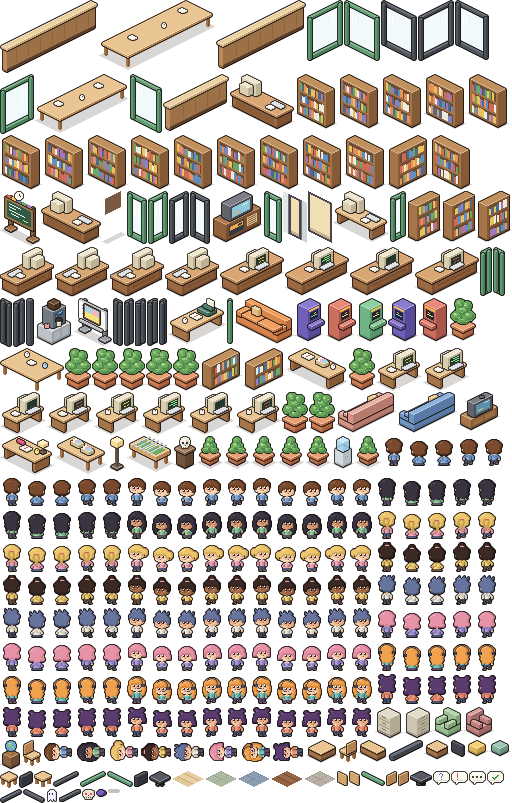
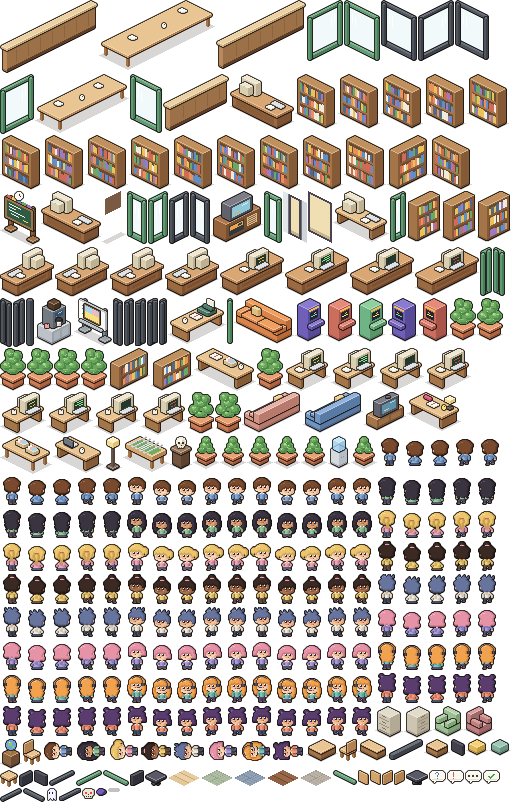
Troca a mesa da Luna por seis mesas de trabalho e centraliza a mesa da Emi
A Casa perde a mesa quadrada e o tapete azul; no lugar entram seis mesas
com notebook e cadeira, a da Luna primeiro. A mesa da Emi e as cadeiras de
visita ficam no meio do tapete. Arte regerada com export_app.py.

diff --git a/test/casa2d.test.ts b/test/casa2d.test.ts
@@ -76,16 +76,12 @@ describe('layout 2D da Casa', () => {
     for (const s of CASA.static) expect(ATLAS.frames[s.f], s.f).toBeDefined()
   })
 
-  it('a mesa da Luna tem seis cadeiras, a da Luna primeiro, todas viradas para a mesa', () => {
-    const { seats, center } = CASA.table
+  it('as seis mesas de trabalho têm uma cadeira cada, a da Luna primeiro, todas viradas para a mesa', () => {
+    const { seats } = CASA.table
     expect(seats).toHaveLength(6)
-    expect(seats[0].dir).toBe('FL')
-    for (const s of seats) {
-      const face = headingOf(s.dir)
-      const toTable = Math.atan2(center[0] - s.at[0], center[1] - s.at[1])
-      // looks at the table within 90 degrees
-      expect(Math.cos(face - toTable), s.seat.f).toBeGreaterThan(0)
-    }
+    expect(new Set(seats.map((s) => s.at.join())).size).toBe(6)
+    // every sitter faces its desk, which is south of the chair
+    for (const s of seats) expect(s.dir, s.seat.f).toBe('FL')
   })
 
   it('dá para chegar do elevador a toda cadeira, à sua mesa, aos cantos de lazer e às portas', () => {
@@ -145,11 +141,11 @@ describe('plano da Casa 2D', () => {
     expect(spots.every((s) => s.sit)).toBe(true)
     expect(spots.some((s) => s.point.x === plan.luna.x && s.point.z === plan.luna.z)).toBe(false)
     expect(new Set(spots.map((s) => `${s.point.x},${s.point.z}`)).size).toBe(5)
-    // the approved art fills the two chairs beside Luna's, then the near one
+    // the residents fill the desks in order after Luna's
     expect(spots.slice(0, 3).map((s) => s.tile)).toEqual([
-      [4, 7],
+      [5, 7],
       [2, 9],
-      [3, 10],
+      [5, 9],
     ])
     // the same seat number always gives the same chair
     expect(homeSpot(grid, 2, plan)).toEqual(spots[2])

diff --git a/scripts/pixel-art/scene_casa2.py b/scripts/pixel-art/scene_casa2.py
@@ -22,13 +22,17 @@ ELEVATOR = (180, 204)
 HALF_WALLS = [(160, [(56, 88), (176, 208)]), (224, [(56, 88), (176, 208)])]
 # the boards on the back wall: x0, x1, action, name
 BOARDS = [(8, 42, 'agenda', 'Agenda'), (54, 90, 'goals', 'Objetivos'), (102, 138, 'personal-routines', 'Rotinas pessoais')]
-# Luna's table (x, y, w, d) and its chairs (x, y, the way the sitter looks); Luna takes the first
-TABLE = (44, 132, 36, 26)
-TABLE_SEATS = [(50, 120, '+y'), (66, 120, '+y'), (30, 146, '+x'), (84, 141, '-x'), (50, 162, '-y'), (66, 162, '-y')]
+# the six work desks (x, y; each 30 x 14, the sitter north of it looking +y); Luna takes the first,
+# then the residents fill them in order
+DESK_W = 30
+DESKS = [(26, 124), (76, 124), (26, 156), (76, 156), (26, 188), (76, 188)]
+# the chair of each desk: x, y, the way the sitter looks
+TABLE_SEATS = [(x + 10, y - 12, '+y') for x, y in DESKS]
+# the bounding box of the desks (x, y, w, d): its middle is where the group looks at
+TABLE = (26, 112, 80, 90)
 # who sits where in the preview (variant, or None for an empty chair)
 TABLE_PEOPLE = [6, 1, 2, None, 7, None]
-# Luna's chair, then the residents' chairs in the order the preview fills them
-SEAT_ORDER = [0, 1, 2, 4, 3, 5]
+SEAT_ORDER = [0, 1, 2, 3, 4, 5]
 # the user's desk (x, y, width), against the front wall
 VOCE_DESK = (70, 266, 36)
 # footprints of the clickable furniture (export_app.py tags the items with these)
@@ -98,7 +102,6 @@ def shell(L):
     F.frame_x(L, 0, 70, 84, 26, 40)
     F.frame_x(L, 0, 88, 98, 30, 42, art=('9cc4dc', 'f6e27a', '8cc477'))
     F.frame_x(L, 0, 112, 132, 22, 44, art=('f2c58a', 'fbf3e0', 'e86a5a'), fr='5f7fb4')
-    F.rug(L, 22, 106, 104, 186, H('c9d6e8'), H('a8b8d0'), H('f4f0e6'))
     F.rug(L, 232, 16, 292, 70, H('d9a0a0'), H('b87a7a'), H('f6dcd0'))
     F.rug(L, 230, 100, 330, 168, H('a9b8d8'), H('8698c0'), H('e4eaf6'))
     F.rug(L, 230, 210, 300, 280, H('f2d6a0'), H('dcb880'), H('fbf3e0'))
@@ -127,37 +130,27 @@ def sala(sc):
     add((4, 110, 14, 120), lambda: F.plant(L, 4, 110, seed=5), True)
 
 
-def table_top(L):
-    tx, ty, tw, td = TABLE
-    F.small_table(L, tx, ty, tw, td)
-    F.mug(L, tx + 6, ty + 6, 12); F.papers(L, tx + 14, ty + 10, 12); F.mug(L, tx + 26, ty + 8, 12, 'a9d6ec')
+def work_desk(L, x, y):
+    """a desk with an open laptop (screen to the sitter, so we see the lid) and a mug."""
+    F.desk(L, x, y, DESK_W, 14)
+    G.laptop(L, x + 4, y + 4, 12, '-y')
+    F.mug(L, x + 20, y + 8, 12)
 
 
 def luna_table(sc):
-    """the approved art's table: one item, chairs and sitters drawn in a fixed order."""
+    """the six work desks: each one item, chair and sitter drawn after it."""
     L = sc.L
-    tx, ty = TABLE[:2]
-
-    def sit(i):
-        cx, cy, face = TABLE_SEATS[i]
+    for i, (x, y) in enumerate(DESKS):
+        cx, cy, _face = TABLE_SEATS[i]
         vi = TABLE_PEOPLE[i]
-        d, fr = {'+y': ('FL', 'sitF'), '+x': ('FR', 'sitF'), '-x': ('BL', 'sitB'), '-y': ('BR', 'sitB')}[face]
-        F.wood_chair(L, cx, cy, face, 'seat')
-        if face in ('+y', '+x'):
-            F.wood_chair(L, cx, cy, face, 'back')
-        if vi is not None:
-            F.seated_wood(L, sprite(vi, d, fr), cx, cy)
-        if face in ('-y', '-x'):
-            F.wood_chair(L, cx, cy, face, 'back')
 
-    def group():
-        for i in (0, 1, 2):
-            sit(i)
-        table_top(L)
-        for i in (3, 4, 5):
-            sit(i)
-    sc.add((tx - 14, ty - 12, tx + 48, ty + 38), group)
-    px, py = L.P(tx + 10, ty - 8, 8)
+        def chair(cx=cx, cy=cy, vi=vi):
+            F.chair(L, cx, cy, '+y')
+            if vi is not None:
+                F.seated(L, sprite(vi, 'FL', 'sitF'), cx, cy)
+        sc.add((x, y, x + DESK_W, y + 14), lambda x=x, y=y: work_desk(L, x, y), True)
+        sc.add((cx, cy, cx + 10, cy + 10), chair)
+    px, py = L.P(TABLE_SEATS[0][0] + 5, TABLE_SEATS[0][1] + 5, 7)
     sc.heads['luna'] = (int(px) + 3 * L.S, int(py) - 24 * L.S)
 
 

diff --git a/scripts/pixel-art/furn2.py b/scripts/pixel-art/furn2.py
@@ -241,6 +241,32 @@ def notebook(L, x, y, z):
     L.qz(z + 1, x + 3, y, x + 4, y + 5, H('d65a5a'))
 
 
+def laptop(L, x, y, z, face='+y', screen='6fd0e0'):
+    """open laptop on a table; `face` is the way its screen looks (the sitter is on that side).
+    (x,y) = footprint corner: 8x6 for +y/-y, 6x8 for +x/-x. A screen facing -y/-x shows its lid back."""
+    body, lid = T('dfe2e4', 'c2c7cc', 'a2a9b0'), T('8a9098', '6f757d', '565b63')
+    if face in ('+y', '-y'):
+        ly = y if face == '+y' else y + 5
+        if face == '+y':
+            L.pbox(x, ly, z + 1, 8, 1, 5, lid)
+        L.pbox(x, y, z, 8, 6, 1, body)
+        if face == '-y':
+            L.pbox(x, ly, z + 1, 8, 1, 5, lid)
+        else:
+            L.begin(); L.qy(ly + 1, x + 1, x + 7, z + 2, z + 6, H('23262e')); L.end(False)
+            L.qy(ly + 1, x + 2, x + 6, z + 3, z + 5, H(screen))
+    else:
+        lx = x if face == '+x' else x + 5
+        if face == '+x':
+            L.pbox(lx, y, z + 1, 1, 8, 5, lid)
+        L.pbox(x, y, z, 6, 8, 1, body)
+        if face == '-x':
+            L.pbox(lx, y, z + 1, 1, 8, 5, lid)
+        else:
+            L.begin(); L.qx(lx + 1, y + 1, y + 7, z + 2, z + 6, H('23262e')); L.end(False)
+            L.qx(lx + 1, y + 2, y + 6, z + 3, z + 5, H(screen))
+
+
 def arcade_x(L, x, y, body=T('8a7ad0', '6f5fb8', '574a96'), screen=H('6fd0e0')):
     """cabinet against a west wall, screen on +x."""
     L.pbox(x, y, 0, 10, 12, 30, body)

diff --git a/scripts/pixel-art/export_app.py b/scripts/pixel-art/export_app.py
@@ -414,7 +414,8 @@ def casa(L, place, items, seat):
     C.half_wall(sc, 0)
     C.half_wall(sc, 1)
     C.sala(sc)
-    sc.add(C.TABLE[:2] + (C.TABLE[0] + C.TABLE[2], C.TABLE[1] + C.TABLE[3]), lambda: C.table_top(L))
+    for dx, dy in C.DESKS:
+        sc.add((dx, dy, dx + C.DESK_W, dy + 14), lambda dx=dx, dy=dy: C.work_desk(L, dx, dy), True)
     x, y, w = C.VOCE_DESK
     ws_front_y(sc, x, y, None, 'green', w=w)
     sc.rec.pop()  # the user's chair is a seat below
@@ -445,7 +446,7 @@ def casa(L, place, items, seat):
         'Filmes': [233, 133, 34], 'Jogos': [233, 238, 38], 'Gastos': [218, 0, 54], 'Alarme': [168, 0, 54],
     })
     # Luna's chair first, then the residents' in the order the approved art fills them
-    seats = [seat(f'casa/table{i}', *C.TABLE_SEATS[i], wood=True) for i in C.SEAT_ORDER]
+    seats = [seat(f'casa/table{i}', *C.TABLE_SEATS[i]) for i in C.SEAT_ORDER]
     walls = sc.walls
     blocked = blocked_by([it['fp'] for it in static if not it.get('wall')])
     ex0, ex1 = C.ELEVATOR

diff --git a/scripts/pixel-art/scene_projeto.py b/scripts/pixel-art/scene_projeto.py
@@ -27,8 +27,8 @@ ROOMS = [  # ry0, h, carpet, name, screen, coordinator, members (None = individu
 ELEVATOR = (268, 292)
 # turned once more, to the left: Emi sits east of her desk facing the west wall (-x) and her monitor, the
 # visitors west of it, clear of the doors to the meeting room (west wall, rows 15-16) and to the lounge (back wall, x 318-336)
-EMI_DESK = (322, 176, 44)
-EMI_VISITORS = [(304, 186), (304, 206)]
+EMI_DESK = (332, 188, 44)
+EMI_VISITORS = [(314, 198), (314, 218)]
 # meeting chairs: (x, y, the way the sitter looks)
 MEETING_SEATS = [(200, cy, '+x') for cy in (170, 196, 222)] + [(242, cy, '-x') for cy in (170, 196, 222)]
 
